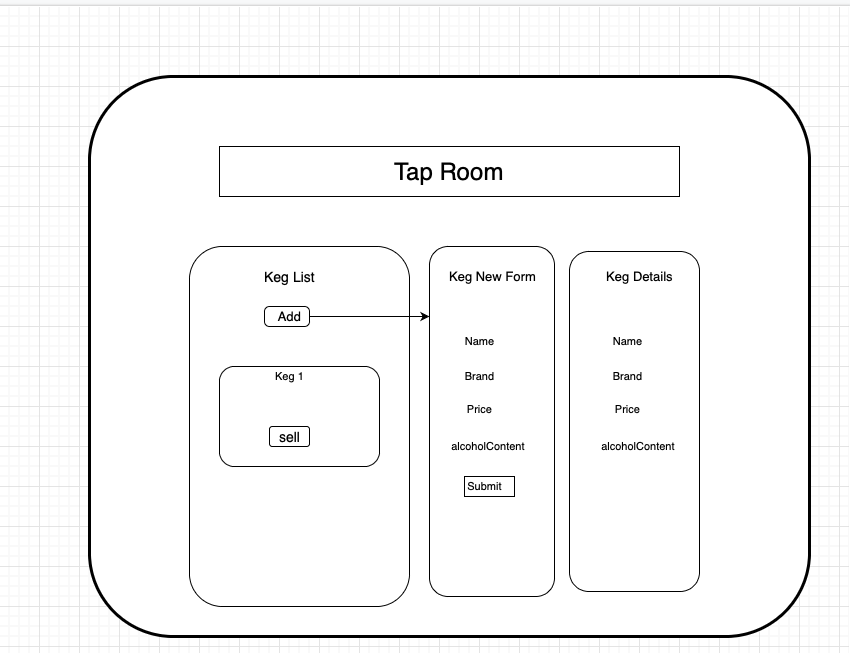
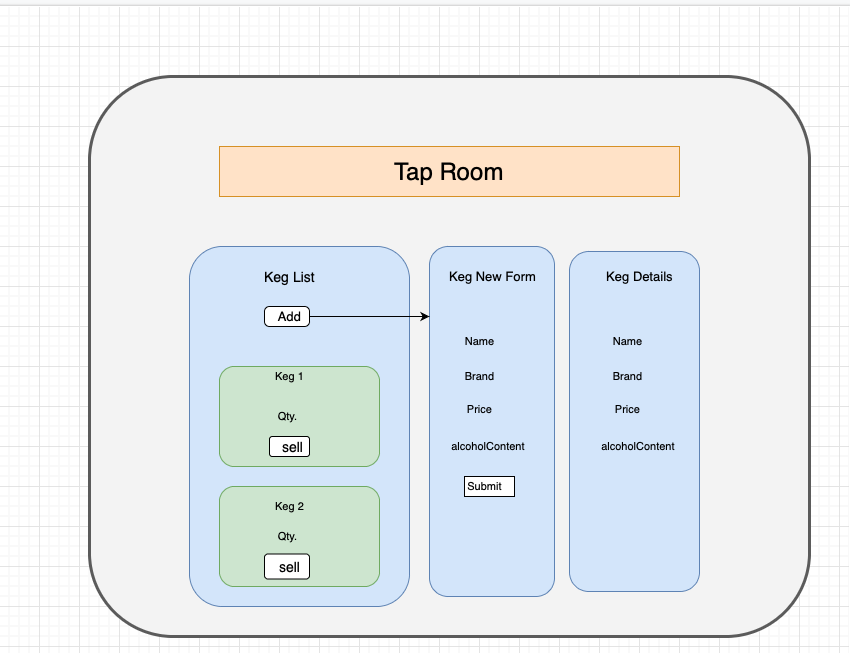
update BeerControl

diff --git a/src/components/BeerControl.js b/src/components/BeerControl.js
@@ -11,33 +11,54 @@ class BeerControl extends React.Component {
       mainBeerList: []
     };
   }
-}
 
-handleClick = () => {
-  if (this.state.selectedBeer != null) {
+  handleClick = () => {
+    if (this.state.selectedBeer != null) {
+      this.setState({
+        formVisibleOnPage: false,
+        selectedBeer: null
+      });
+    } else {
+      this.setState(prevState => ({
+        formVisibleOnPage: !prevState.formVisibleOnPage,
+      }));
+    }
+  }
+
+  handleAddingNewBeerToList = (newBeer) => {
+    const newMainBeerList = this.state.mainBeerList.concat(newBeer);
     this.setState({
-      formVisibleOnPage: false,
-      selectedBeer: null
+      mainBeerList: newMainBeerList,
+      formVisibleOnPage: false 
     });
-  } else {
-    this.setState(prevState => ({
-      formVisibleOnPage: !prevState.formVisibleOnPage,
-    }));
+  }
+
+  handleDecrementBeerQuantity = (quantityBeer) => {
+    const updateBeerQuantity = [...this.state.mainBeerList];
+    updateBeerQuantity[quantityBeer].quantity = updateBeerQuantity[quantityBeer].quantity-1;
+    this.setState({
+      mainBeerList: updateBeerQuantity
+    })
+  }
+
+  render() {
+    let currentlyVisibleState = null;
+    let buttonText = null;
+    if (this.state.formVisibleOnPage) {
+      currentlyVisibleState = <NewBeerForm onNewBeerCreation={this.handleAddingNewBeerToList} />;
+      buttonText = "Return to Beer List";
+    } else {
+      currentlyVisibleState = <BeerList onDecrementBeerQuantity={this.handleDecrementBeerQuantity}
+      beerList={this.state.mainBeerList} />;
+      buttonText = "Add Beer";
+    }
+    return (
+      <React.Fragment>
+        {currentlyVisibleState}
+        <button onClick={this.handleClick}>{buttonText}</button>
+      </React.Fragment>
+    );
   }
 }
 
-handleAddingNewBeerToList = (newBeer) => {
-  const newMainBeerList = this.state.mainBeerList.concat(newBeer);
-  this.setState({
-    mainBeerList: newMainBeerList,
-    formVisibleOnPage: false 
-  });
-}
-
-handleDecrementItemQuantity = (quantityItem) => {
-  const updateItemQuantity = [...this.state.mainItemList];
-  updateItemQuantity[quantityItem].quantity = updateItemQuantity[quantityItem].quantity-1;
-  this.setState({
-    mainItemList: updateItemQuantity
-  })
-}
+export default BeerControl;
